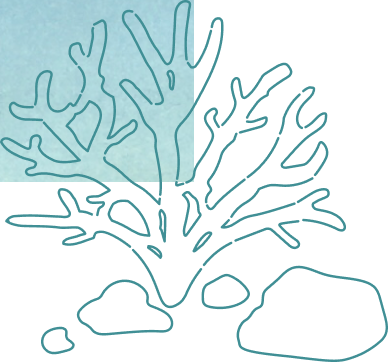
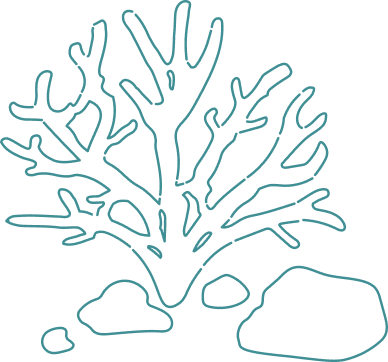
price 出現アニメ

Changed region(s): [[0.0, 0.0, 0.5258, 0.5166]]

diff --git a/src/index.html b/src/index.html
@@ -439,6 +439,9 @@
               </div>
             </div>
           </div>
+          <div class="top-about__decoration u-desktop">
+            <img src="./assets/images/common/about-deco.png" alt="">
+          </div>
         </div>
       </section>
 
@@ -451,7 +454,7 @@
           <p class="section-title__ja">ダイビング情報</p>
         </div>
         <div class="inner top-information__inner">
-          <div class="top-information__img">
+          <div class="top-information__img js-top-information">
             <img src="./assets/images/common/info.jpg" alt="" />
           </div>
           <div class="top-information__body">
@@ -542,7 +545,7 @@
           </div>
 
           <article class="top-voice__cards voice-cards">
-            <a href="#" class="voice-cards__item voice-card">
+            <a href="#" class="voice-cards__item voice-card js-voice-card1">
               <div class="voice-card__head">
                 <div class="voice-card__info-wrap">
                   <div class="voice-card__info">
@@ -551,7 +554,6 @@
                   </div>
                   <h3 class="voice-card__title">
                     ここにタイトルが入ります。ここにタイトル
-                    ここにタイトルが入ります。ここにタイトルここにタイトルが入ります。ここにタイトルここにタイトルが入ります。ここにタイトル
                   </h3>
                 </div>
 
@@ -566,7 +568,7 @@
                 ここにテキストが入ります。ここにテキストが入ります。
               </p>
             </a>
-            <a href="#" class="voice-cards__item voice-card">
+            <a href="#" class="voice-cards__item voice-card js-voice-card2">
               <div class="voice-card__head">
                 <div class="voice-card__info-wrap">
                   <div class="voice-card__info">
@@ -606,18 +608,11 @@
           <p class="section-title__ja">料金一覧</p>
         </div>
         <div class="inner top-price__inner">
-          <picture class="top-price__img">
-            <source
-              media="(min-width: 768px)"
-              srcset="./assets/images/common/price2.jpg"
-            />
 
-            <source
-              media="(min-width: 450px)"
-              srcset="./assets/images/common/price1.jpg"
-            />
-            <img src="./assets/images/common/price1.jpg" alt="海" />
-          </picture>
+          <div class="top-price__img js-top-price">
+            <img class="u-mobile" src="./assets/images/common/price1.jpg" alt="かめ">
+            <img class="u-desktop" src="./assets/images/common/price2.jpg" alt="サンゴ">
+          </div>
 
           <div class="top-price__text-block">
             <ul class="top-price__list-items">

diff --git a/src/js/script.js b/src/js/script.js
@@ -181,19 +181,24 @@ jQuery(function ($) {
 $(window).on('scroll', function() {
   let windowPosition = $(window).scrollTop() + $(window).height();
   
-  let boxPosition = $('.top-information__img').offset().top;
+  let boxPosition = $('.js-top-information').offset().top;
   if (windowPosition >= boxPosition) {
-    $('.top-information__img').addClass('is-active');
+    $('.js-top-information').addClass('is-active');
   }
 
-  let voicePosition = $('.voice-card').offset().top;
+  let voicePosition = $('.js-voice-card1').offset().top;
   if (windowPosition >= voicePosition) {
-    $('.voice-card').addClass('is-active');
+    $('.js-voice-card1').addClass('is-active');
   }
 
-  let pricePosition = $('.top-price__img').offset().top;
+  let voicePosition2 = $('.js-voice-card2').offset().top;
+  if (windowPosition >= voicePosition2) {
+    $('.js-voice-card2').addClass('is-active');
+  }
+
+  let pricePosition = $('.js-top-price').offset().top;
   if (windowPosition >= pricePosition) {
-    $('.top-price__img').addClass('is-active');
+    $('.js-top-price').addClass('is-active');
   }
 });
   

diff --git a/src/sass/module/_top-about.scss b/src/sass/module/_top-about.scss
@@ -15,13 +15,8 @@
 .top-about__img {
   position: relative;
   width: 100%;
-  // max-width: rem(281);
-  // margin-top: rem(24);
   right: 0;
   margin-left: auto;
-  @include mq("md") {
-    // max-width: rem(880);
-  }
 }
 
 .top-about__img::before {
@@ -81,4 +76,13 @@
 .top-about__btn {
   margin-top: rem(40);
   text-align: center;
+}
+
+.top-about__decoration {
+  max-width: rem(194);
+  position: absolute;
+  bottom: -90px;
+  right: -72px;
+  // margin-left: calc(50% + 700px);
+  // transform: translateX(-50%);
 }

diff --git a/src/sass/module/_top-price.scss b/src/sass/module/_top-price.scss
@@ -112,14 +112,12 @@
   z-index: 0;
   background-color: $green-accent;
 }
-// ,.top-price__img img::after
 
 .top-price__img.is-active {
   animation-name: boxAnimation;
   animation-duration: .7s;
   animation-fill-mode: forwards;
 }
-//.top-price__img img.is-active
 
 @keyframes boxAnimation {
   0% {
@@ -138,7 +136,6 @@
   animation-duration: 0.7s;
   animation-fill-mode: forwards;
 }
-// .is-active.top-price__img img::after
 
 @keyframes colorAnimation {
   0% {
